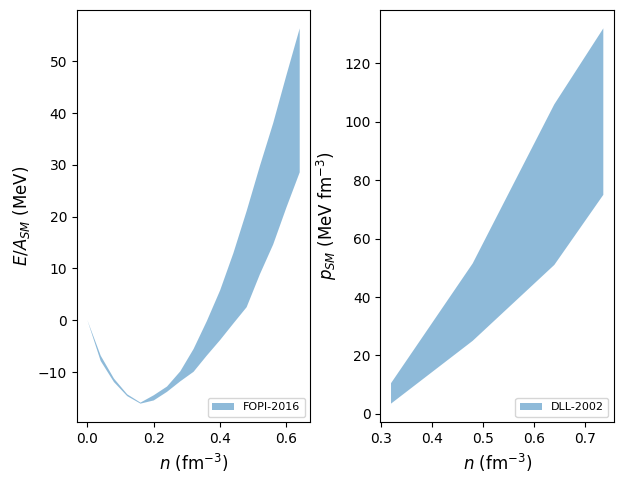
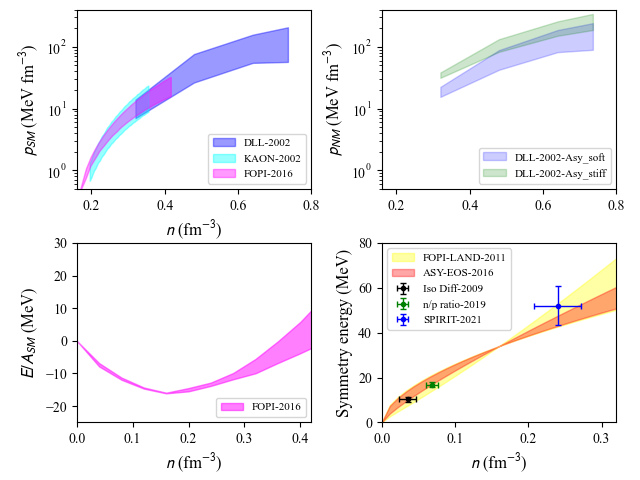
Update to HIC constraints data and scripts
Update to HIC constraints data and scripts

diff --git a/version1.0/nucleardatapy_samples/plots/plot_eos_setupHIC.py b/version1.0/nucleardatapy_samples/plots/plot_eos_setupHIC.py
@@ -4,9 +4,15 @@ import sys
 import numpy as np
 import matplotlib.pyplot as plt
 #plt.rcParams.update({'font.size': 16})
+# Set clean font settings
+# Set 'DejaVu Sans' as the font
+plt.rcParams["font.family"] = "Times New Roman"
+plt.rcParams['font.family'] = 'serif'
+plt.rcParams['mathtext.fontset'] = 'stixsans'
+plt.rcParams['font.serif'] = ['Times New Roman'] + plt.rcParams['font.serif']
 
-#nucleardatapy_tk = os.getenv('NUCLEARDATAPY_TK')
-#sys.path.insert(0, nucleardatapy_tk)
+nucleardatapy_tk = os.getenv('NUCLEARDATAPY_TK')
+sys.path.insert(0, nucleardatapy_tk)
 
 import nucleardatapy as nuda
 
@@ -14,29 +20,69 @@ def plot_eos_setupHIC( pname, constraints ):
     #
     # plot
     #
-    fig, axs = plt.subplots(1,2)
+    fig, axs = plt.subplots(2,2)
     fig.tight_layout() # Or equivalently,  "plt.tight_layout()"
     fig.subplots_adjust(left=0.12, bottom=0.12, right=None, top=0.98, wspace=0.3, hspace=0.3)
     #
-    axs[0].set_xlabel(r'$n$ (fm$^{-3}$)',fontsize='12')
-    axs[1].set_xlabel(r'$n$ (fm$^{-3}$)',fontsize='12')
-    axs[0].set_ylabel(r'$E/A_{SM}$ (MeV)',fontsize='12')
-    axs[1].set_ylabel(r'$p_{SM}$ (MeV fm${-3}$)',fontsize='12')
+    axs[0][0].set_xlabel(r'$n$ (fm$^{-3}$)',fontsize='12')
+    axs[1][0].set_xlabel(r'$n$ (fm$^{-3}$)',fontsize='12')
+    axs[1][1].set_xlabel(r'$n$ (fm$^{-3}$)',fontsize='12')
+    axs[1][0].set_ylabel(r'$E/A_{SM}$ (MeV)',fontsize='12')
+    axs[1][1].set_ylabel(r'Symmetry energy (MeV)',fontsize='12')
+
+    axs[0][0].set_ylabel(r'$p_{SM}$ (MeV fm$^{-3}$)',fontsize='12')
+    #axs[0][1].set_ylabel(r'$p_{Asy}$ (MeV fm$^{-3}$)',fontsize='12')
+    axs[0][1].set_ylabel(r'$p_{NM}$ (MeV fm$^{-3}$)',fontsize='12')
     #axs.set_xlim([0.09, 0.27])
-    #axs.set_ylim([10, 60])
+    axs[0][0].set_xlim([0.16, 0.8])
+    axs[0][0].set_ylim([0.5, 400])
+    axs[0][1].set_xlim([0.16, 0.8])
+    axs[1][1].set_xlim([0.0, 0.32])
+    axs[0][1].set_ylim([0.5, 400])
+    axs[1][1].set_ylim([0.0, 80])
+
+    axs[1][0].set_xlim([0.0, 0.42])
+    axs[1][0].set_ylim([-25, 30])
+    axs[0][0].set_yscale('log')
+    axs[0][1].set_yscale('log')
     #
     for constraint in constraints:
         #
-        hic = nuda.eos.setupHIC( constraint = constraint )
+        hic = nuda.setupHIC( constraint = constraint )
         #
-        if hic.sm_e2a is not None:
-            axs[0].fill_between( hic.den, y1=hic.sm_e2a_lo, y2=hic.sm_e2a_up, label=hic.label, alpha=hic.alpha )
+        
+
         if hic.sm_pre is not None:
-            axs[1].fill_between( hic.den, y1=hic.sm_pre_lo, y2=hic.sm_pre_up, label=hic.label, alpha=hic.alpha )
+            axs[0][0].fill_between( hic.den, y1=hic.sm_pre_lo, y2=hic.sm_pre_up, label=hic.label, alpha=hic.alpha*0.8, color = hic.color )
+
+        if hic.sm_e2a is not None:
+            axs[1][0].fill_between( hic.den_e2a, y1=hic.sm_e2a_lo, y2=hic.sm_e2a_up, label=hic.label, alpha=hic.alpha, color ='magenta' )
+
+        if hic.nm_pre is not None:
+            axs[0][1].fill_between( hic.den, y1=hic.nm_pre_lo, y2=hic.nm_pre_up, label=hic.label_so, alpha=0.2, color ='b' )
+            axs[0][1].fill_between( hic.den, y1=hic.nm_pre_st_lo, y2=hic.nm_pre_st_up, label=hic.label_st, alpha=0.2, color ='g' )
+
+        if hic.sym_enr_isodiff is not None:
+            axs[1][1].errorbar( hic.den_isodiff, hic.sym_enr_isodiff, xerr = hic.den_isodiff_err, yerr=hic.sym_enr_isodiff_err, fmt='o', 
+                               label=hic.label, color = hic.color, capsize=2, capthick=1, elinewidth=1 , markersize =3)
+            
+        if hic.sym_enr is not None:
+            axs[1][1].fill_between( hic.den, y1=hic.sym_enr_lo, y2=hic.sym_enr_up, label=hic.label, alpha=hic.alpha*0.7, color = hic.color )
+
+        if hic.sym_enr_np is not None:
+            axs[1][1].errorbar( hic.den_np, hic.sym_enr_np, xerr = hic.den_np_err, yerr=hic.sym_enr_np_err, fmt='o', 
+                               label=hic.label, color = hic.color, capsize=2, capthick=1, elinewidth=1, markersize =3 )
+
+        if hic.sym_enr_spirit is not None:
+            axs[1][1].errorbar( hic.den_spirit, hic.sym_enr_spirit, xerr = hic.den_spirit_err, yerr=hic.sym_enr_spirit_err, fmt='o', 
+                               label=hic.label, color = hic.color, capsize=2, capthick=1, elinewidth=1 , markersize =3)
+
     #
     #axs.text(0.15,12,r'$K_{sym}$='+str(int(Ksym))+' MeV',fontsize='12')
-    axs[0].legend(loc='lower right',fontsize='8')
-    axs[1].legend(loc='lower right',fontsize='8')
+    axs[0][0].legend(loc='lower right',fontsize='8')
+    axs[0][1].legend(loc='lower right',fontsize='8')
+    axs[1][0].legend(loc='lower right',fontsize='8')
+    axs[1][1].legend(loc='upper left',fontsize='8')
     #
     plt.savefig(pname)
     plt.close()
@@ -52,7 +98,8 @@ def main():
     #
     os.system('mkdir -p figs/')
     #
-    constraints, constraints_lower = nuda.eos.hic_constraints()
+    constraints, constraints_lower = nuda.hic_constraints()
+   
     #constraints = [ '2014-IAS' ]
     #
     pname = 'figs/plot_eos_setupHIC.png'
@@ -63,6 +110,7 @@ def main():
     print("Exit plot_eos_setupHIC.py:")
     print(50*'-')
     #
+
     
 if __name__ == "__main__":
     main()

diff --git a/version1.0/nucleardatapy/eos/setup_hic.py b/version1.0/nucleardatapy/eos/setup_hic.py
@@ -3,8 +3,8 @@ import sys
 import math
 import numpy as np  # 1.15.0
 
-#nucleardatapy_tk = os.getenv('NUCLEARDATAPY_TK')
-#sys.path.insert(0, nucleardatapy_tk)
+nucleardatapy_tk = os.getenv('NUCLEARDATAPY_TK')
+sys.path.insert(0, nucleardatapy_tk)
 
 import nucleardatapy as nuda
 
